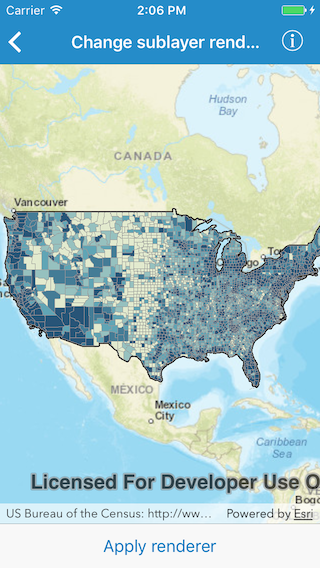
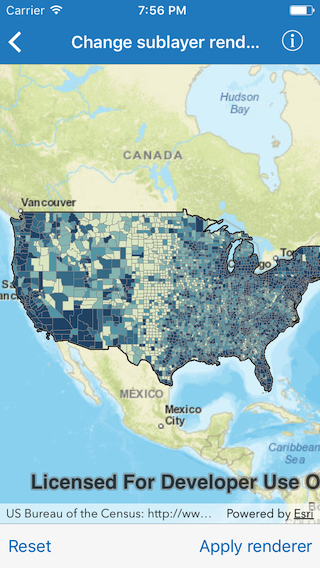
Review changes

diff --git a/arcgis-ios-sdk-samples/Layers/Change sublayer renderer/ChangeSublayerRendererVC.swift b/arcgis-ios-sdk-samples/Layers/Change sublayer renderer/ChangeSublayerRendererVC.swift
@@ -18,9 +18,12 @@ import ArcGIS
 class ChangeSublayerRendererVC: UIViewController {
 
     @IBOutlet private var mapView:AGSMapView!
+    @IBOutlet private var resetBarButtonItem:UIBarButtonItem!
+    @IBOutlet private var applyRendererBarButtonItem:UIBarButtonItem!
     
     //map image layer
     private var mapImageLayer = AGSArcGISMapImageLayer(url: URL(string: "http://sampleserver6.arcgisonline.com/arcgis/rest/services/Census/MapServer")!)
+    private var originalRenderer:AGSRenderer?
     
     override func viewDidLoad() {
         super.viewDidLoad()
@@ -42,6 +45,29 @@ class ChangeSublayerRendererVC: UIViewController {
         
         //set map on the map view
         self.mapView.map = map
+        
+        //load map image layer to access sublayers
+        self.mapImageLayer.load { [weak self] (error: Error?) in
+            
+            guard let weakSelf = self else {
+                return
+            }
+            
+            //get the counties sublayer
+            if let sublayer = weakSelf.mapImageLayer.mapImageSublayers[2] as? AGSArcGISMapImageSublayer {
+                
+                //load the sublayer to get the original renderer
+                sublayer.load(completion: { (error) in
+                    if error == nil {
+                        weakSelf.originalRenderer = sublayer.renderer
+                        
+                        //enable bar button items
+                        self?.applyRendererBarButtonItem.isEnabled = true
+                        self?.resetBarButtonItem.isEnabled = true
+                    }
+                })
+            }
+        }
     }
     
     //returns a class break renderer
@@ -72,22 +98,24 @@ class ChangeSublayerRendererVC: UIViewController {
         return classBreakRenderer
     }
     
-    @IBAction private func setRenderer() {
+    //MARK: - Actions
+    
+    @IBAction private func applyRenderer() {
         
-        //make sure the map image layer is loaded before accessing the sublayers
-        self.mapImageLayer.load { [weak self] (error: Error?) in
-            
-            guard error == nil else {
-                SVProgressHUD.showError(withStatus: error!.localizedDescription, maskType: .gradient)
-                return
-            }
-            
-            //get the counties sublayer
-            if let sublayer = self!.mapImageLayer.mapImageSublayers[2] as? AGSArcGISMapImageSublayer {
+        //get the counties sublayer
+        if let sublayer = self.mapImageLayer.mapImageSublayers[2] as? AGSArcGISMapImageSublayer {
+         
+            //set the class breaks renderer on the counties sublayer
+            sublayer.renderer = self.classBreakRenderer()
+        }
+    }
+    
+    @IBAction private func reset() {
+        
+        if let renderer = self.originalRenderer, let sublayer = self.mapImageLayer.mapImageSublayers[2] as? AGSArcGISMapImageSublayer  {
                 
-                //set the class breaks renderer on the counties sublayer
-                sublayer.renderer = self!.classBreakRenderer()
-            }
+            //set the class breaks renderer on the counties sublayer
+            sublayer.renderer = renderer
         }
     }
     

diff --git a/arcgis-ios-sdk-samples/Layers/Change sublayer renderer/README.md b/arcgis-ios-sdk-samples/Layers/Change sublayer renderer/README.md
@@ -4,7 +4,7 @@ This sample demonstrates how you to change renderer of a sublayer in map image l
 
 ## How the app works
 
-Tap on `Apply renderer` button to apply a class breaks renderer based on population for each county.
+Tap on `Apply renderer` button to apply a class breaks renderer based on population for each county. Tap on the `Reset` button to reset to original renderer.
 
 ![](image1.png)
 
